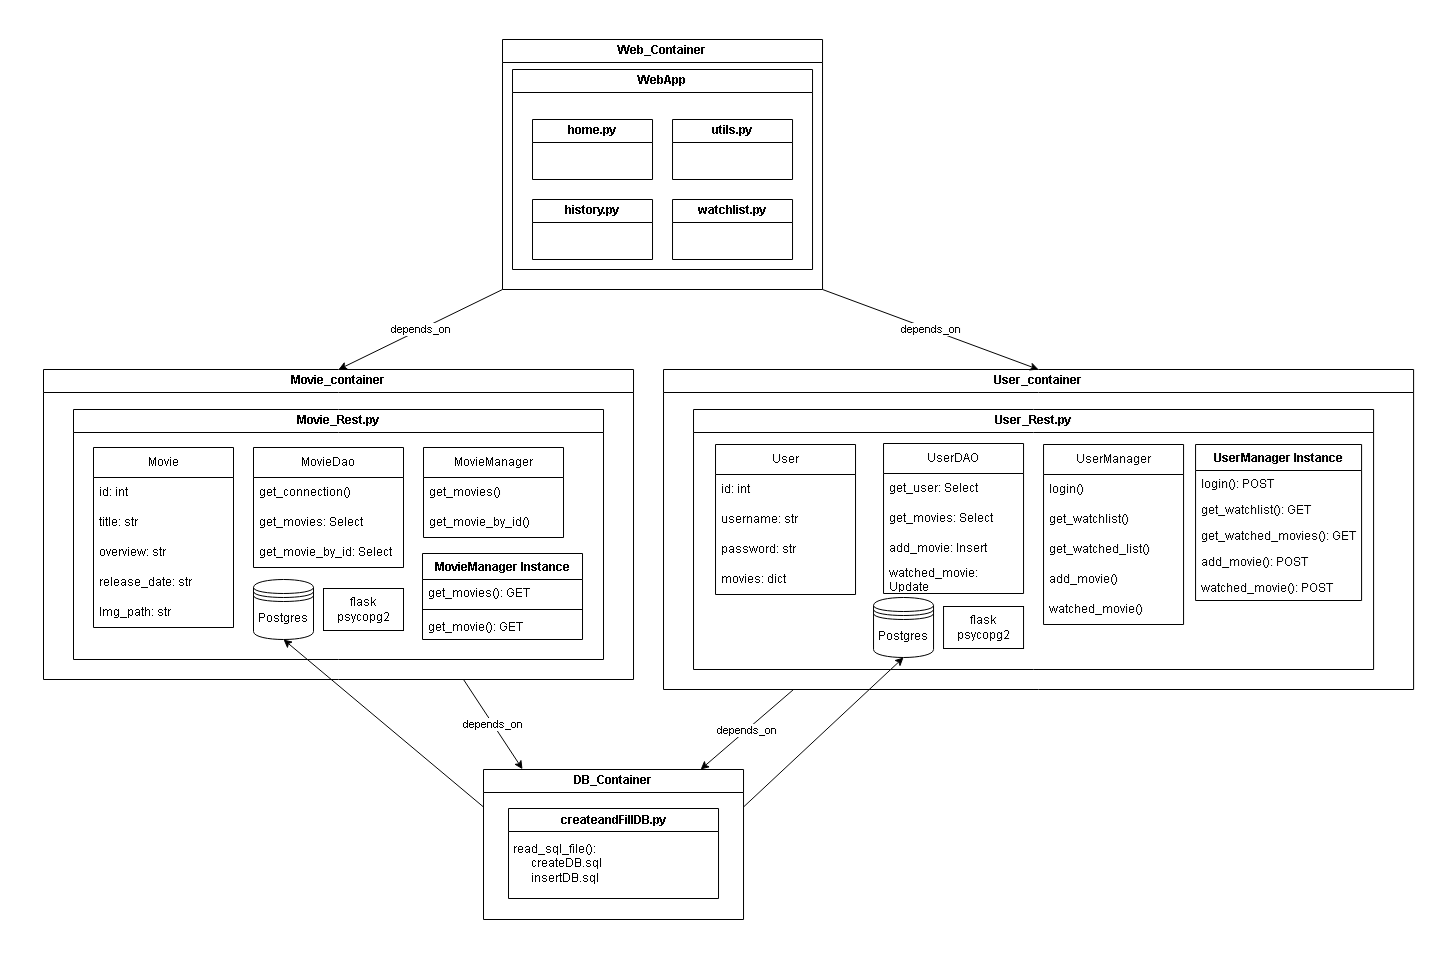
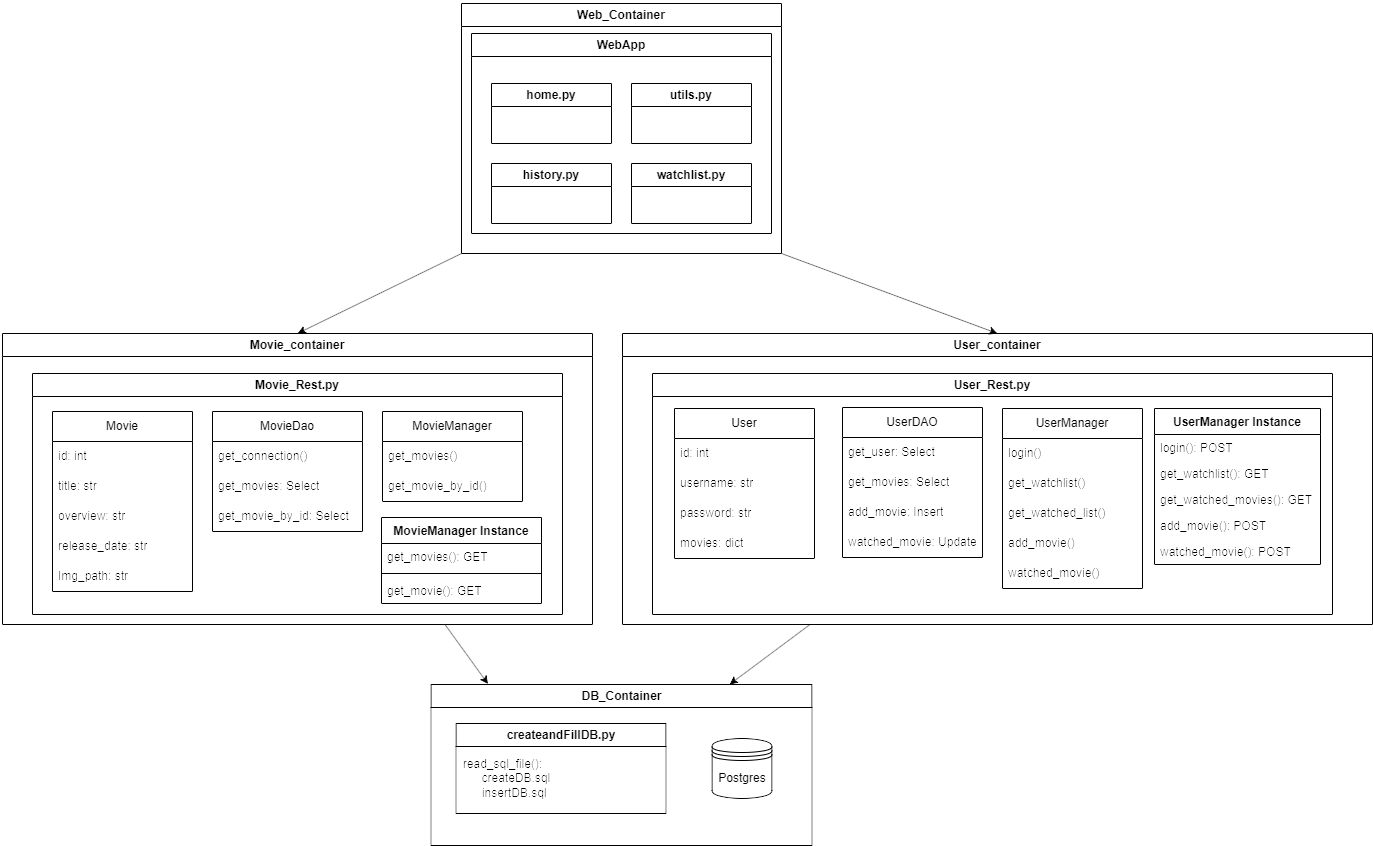
Finalised README

diff --git a/README.md b/README.md
@@ -17,7 +17,7 @@ Finally, to demonstrate that the microservices can be deployed on a cloud servic
 
 ## Monolith 
 ### Architecture
-![Monolith Architecture](https://github.com/kathi-munk/clc3-project/blob/main/img/Monolith.png)
+![Monolith Architecture](img/Monolith.png)
 
 The application was built with Python and SQLite, and offers a user-friendly interface for users to interact with their movie collection. The application is built of multiple python "modules", each dedicated to specific functions.
 
@@ -46,30 +46,24 @@ The application was built with Python and SQLite, and offers a user-friendly int
 #### Database
 <img src="img/db_model.png" alt="Database" width="300" height="auto">
 
-
 For the Monolith we opted for a sqlite database since it was easier to start with. However, for the microservices architecture we chose a PostgreSQL database to enable external access via a dedicated port.
-
-----Featuresteil würd ich entfernen
-#### Features
-- **User Authentication**: Supports user login functionality.
-- **Movie Management**: Users can view movies, add them to their watchlist, and mark them as watched with ratings.
-- **Dynamic Data Handling**: Interacts dynamically with the SQLite database for real-time data updates.
 
 ## Microservices 
 ### Architecture
-![Microservice Architecture](https://github.com/kathi-munk/clc3-project/blob/main/img/Microservices.png)
+![Microservice Architecture](img/Microservices.png)
+
+The biggest change from the monolithic to the microservice architecture is that now the functionality of the Users, Movies, the WebApp and the database were split up into seperate containers/python scripts. Meaning that in the Movie and User files the domain class, DAO and Manager of the respective functionality is encapsulated. To be able to communicate between the containers/scripts it was necessary to build REST API endpoints for the Movie and User containers, to use their functionality. Additionally, the communication between the DAOs and the database was adapted to use the HTTP protocol to access the data in the database.
 
 ### Database change
-Instead of a SQLLite database a PostgreSQL database is now used, as these can be access via HTTP and the goal was to put the database into its own container and access it there.
+Instead of a SQLite database a PostgreSQL database is now used, as these can be access via HTTP and the goal was to put the database into its own container and access it there.
 
 ### Backend Services
-The application consists of two main Python scripts: `MovieRest.py` and `User_Rest.py`.
-- `MovieRest.py`: Handles movie-related operations.
+The application consists of two main Python scripts: `Movie_Rest.py` and `User_Rest.py`.
+- `Movie_Rest.py`: Handles movie-related operations.
 - `User_Rest.py`: Manages user authentication and their watchlist.
 
 
 ### API Endpoints
-
 #### Movie Service
 - `GET /movies`: Fetch all movies.
 - `GET /movie/<int:movie_id>`: Fetch a single movie by its ID.
@@ -84,21 +78,26 @@ The application consists of two main Python scripts: `MovieRest.py` and `User_Re
 
 ## Dockerization
 For  Movie, User, Web and Database seperate Dockerfiles were created. The docker-compose defines a container for each dockerfile. The Web container establishes HTTP connections with the API containers, utilizing hostnames matching the container names defined in the compose file.
+
 The dockerfiles follow this structure: 
 - using python as base image
 - copying needed files
 - install dependencies e.g. Flask
 - set environment variables (e.g. which app flask should run)
 - starting flask/streamlit on the defined port (e.g. 5001 = movies-rest)
-In the database container the environments variables are the login data for the database. <span style="color: red;">(? To avoid repeated container rebuilding, we might consider incorporating the database login information directly into the docker-compose file.?)</span>
+
+In the database container the environments variables are the login data for the database.
 
 Here's the overview of the launched containers and their associated ports:
-![Docker Structure](https://github.com/kathi-munk/clc3-project/blob/main/img/dockercontainer_structure.png)
+![Docker Structure](img/dockercontainer_structure.png)
 
 ### Running the microservice in docker
-1. Build the Docker images for the backend services and the frontend.
-2. Run the Docker containers.
-3. Access the Streamlit interface on the specified port.
+1. open the repository in the CLI 
+2. change into the microservice/dockerization folder (`cd microservice\dockerization`)
+3. Build the docker-compose: `docker compose up`
+4. Open application in `localhost:8501`
+
+To be able to use the docker images for the Kubernetes setup, the images were published on DockerHub.
 
 ## Microservices on Kubernetes
 To run the microservices on Kubernetes we built on the before explained docker-compose.
@@ -106,16 +105,19 @@ To run the microservices on Kubernetes we built on the before explained docker-c
 To convert the docker-compose into the Kubernetes configuration files, `konvert compose` was used to built the deployment and service YAML files. These configuration files can be found in the kubernetes folder.
 
 To finally setup and start the application in Kubernetes the following steps need to be done:
-- open the repository in the CLI 
-- change into the microservice/kubernetes folder (`cd microservice\kubernetes`)
-- create a Kubernetes cluster: `kind create cluster`
-- apply the configuration files: `kubectl apply -f .`
-- check that deployments were created: `kubectl get deployments`
-- check that services were created: `kubectl get svc`
-- open port to web application: `kubectl port-forward service/web-application 8501:8501`
-- open application in `127.0.0.1:8501`
-
+1. Open the repository in the CLI 
+2. Change into the microservice/kubernetes folder (`cd microservice\kubernetes`)
+3. Create a Kubernetes cluster: `kind create cluster`
+4. Apply the configuration files: `kubectl apply -f .`
+5. Check that deployments were created: `kubectl get deployments`
+6. Check that services were created: `kubectl get svc`
+7. Open port to web application: `kubectl port-forward service/web-application 8501:8501`
+8. Open application in `127.0.0.1:8501`
 
 
 ## Summary of lessons-learned
-gemeinsam
+- Not every database is suitable for microservice use when it should run in its' own container(e.g. SQLite)
+- It's easier to write a docker-compose and convert it into the Kubernetes config files than to write the config files directly
+- Kind is a very good alternative to GCloud or Azure if you want to deploy only small applications (small use-case)
+- Setting up Kubernetes is very easy, when you have the config files
+- If you have a good monolithic structure and docker knowledge it can be relativly easy to convert the monolith into a microservice application.
